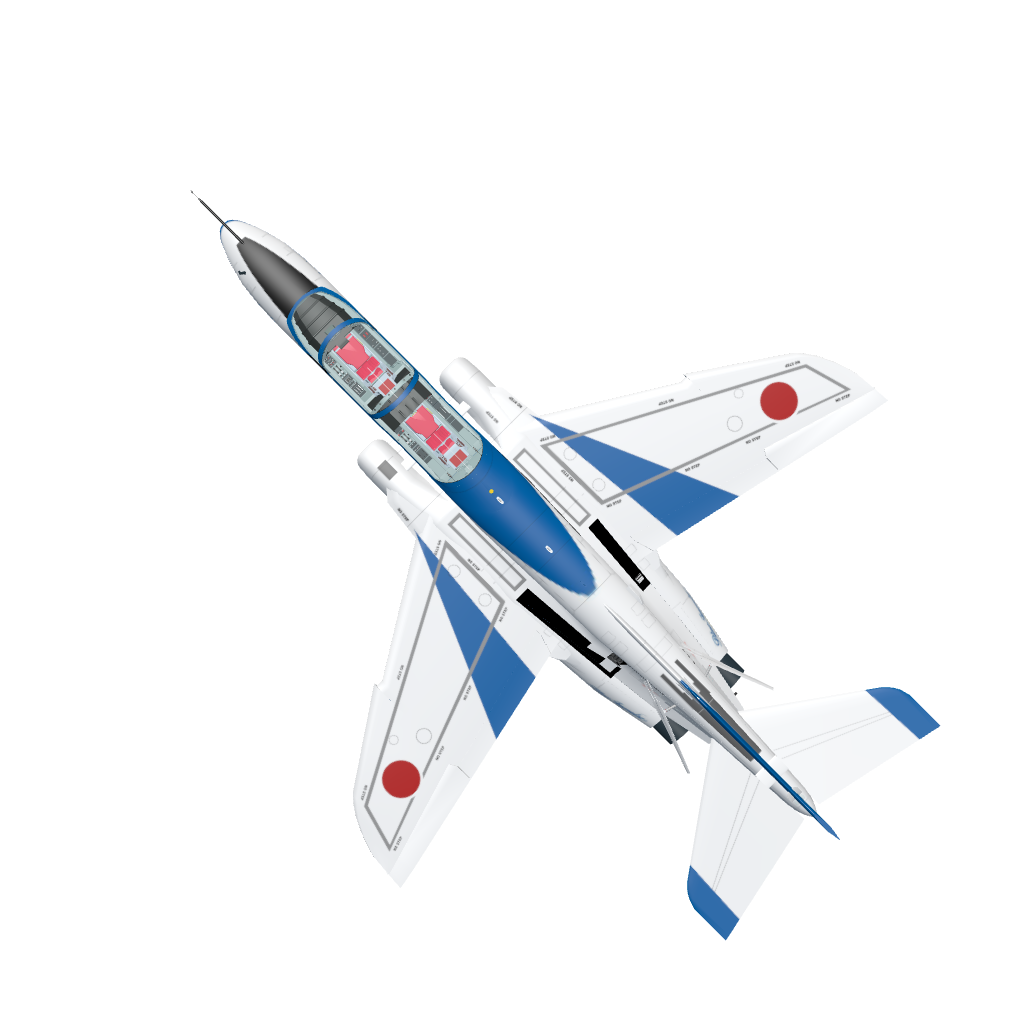
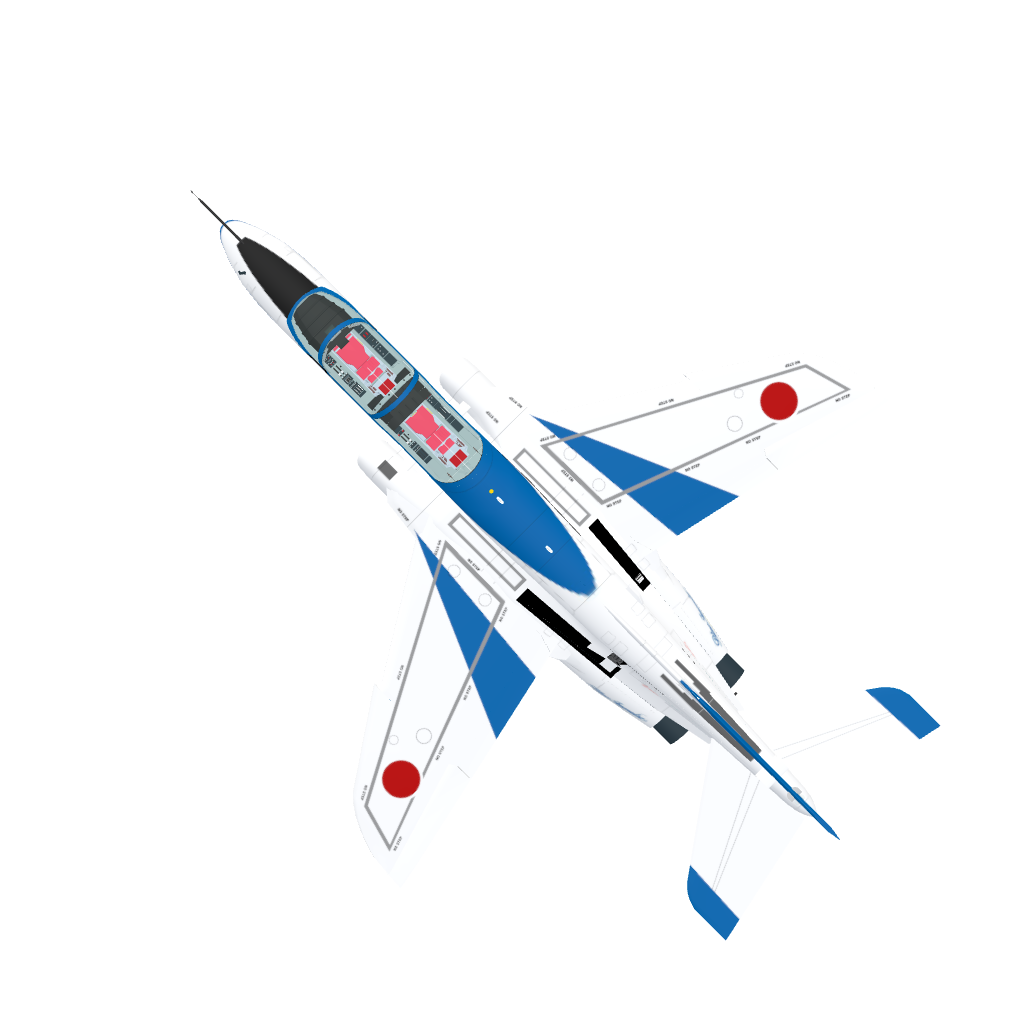
図版を再描画: 上面図も3Dモデルから生成、裏面描画を止めて黒い陰影を解消、姿勢図の背景を明るいグレーに

diff --git a/dev/render/render.html b/dev/render/render.html
@@ -22,9 +22,11 @@ renderer.setSize(W, H); renderer.setPixelRatio(1);
 renderer.setClearColor(0x000000, P.has('probe') ? 1 : 0);
 renderer.outputColorSpace = THREE.SRGBColorSpace;
 const scene = new THREE.Scene();
-scene.add(new THREE.HemisphereLight(0xffffff, 0x8899aa, 1.4));
-const dl = new THREE.DirectionalLight(0xffffff, 1.8); dl.position.set(-3, -4, 6); scene.add(dl);
-const dl2 = new THREE.DirectionalLight(0xffffff, 0.7); dl2.position.set(4, -2, -3); scene.add(dl2);
+/* 照明: 環境光を主体にして、陰影が濃く出ないようにする（?hemi= ?dir= で調整） */
+scene.add(new THREE.HemisphereLight(0xffffff, 0xb0b8c4, +(P.get('hemi') || 2.2)));
+scene.add(new THREE.AmbientLight(0xffffff, +(P.get('amb') || 0.6)));
+const dl = new THREE.DirectionalLight(0xffffff, +(P.get('dir') || 0.9)); dl.position.set(-3, -4, 6); scene.add(dl);
+const dl2 = new THREE.DirectionalLight(0xffffff, +(P.get('dir2') || 0.4)); dl2.position.set(4, -2, -3); scene.add(dl2);
 /* 世界座標: x=東(右), y=北(奥), z=上。視点は南 (0,-d,0) から原点を見る */
 const cam = new THREE.PerspectiveCamera(+(P.get('fov') || 28), W / H, 0.1, 1000);
 cam.up.set(0, 0, 1);
@@ -42,8 +44,8 @@ try {
 let meshes = 0, textured = 0;
 obj.traverse(o => { if (o.isMesh) { meshes++; const ms = Array.isArray(o.material) ? o.material : [o.material]; ms.forEach(m => {
   if (m.map) { textured++; m.color.setRGB(1, 1, 1); if (m.map.colorSpace !== undefined) m.map.colorSpace = THREE.SRGBColorSpace; }
-  if (m.emissive) m.emissive.setRGB(0, 0, 0); if (m.specular) m.specular.setRGB(.15, .15, .15); m.shininess = 20;
-  m.side = THREE.DoubleSide; m.needsUpdate = true; }); } });
+  if (m.emissive) m.emissive.setRGB(0, 0, 0); if (m.specular) m.specular.setRGB(.05, .05, .05); m.shininess = 8;
+  m.side = P.get('side') === 'double' ? THREE.DoubleSide : THREE.FrontSide; m.needsUpdate = true; }); } });
 const box = new THREE.Box3().setFromObject(obj); const size = box.getSize(new THREE.Vector3()); const ctr = box.getCenter(new THREE.Vector3());
 const names = []; obj.traverse(o => { if (o.isMesh) names.push(o.name + '[' + (Array.isArray(o.material) ? o.material.map(m => m.name).join('|') : o.material.name) + ']'); });
 log(`meshes ${meshes} textured ${textured} size ${size.x.toFixed(1)} ${size.y.toFixed(1)} ${size.z.toFixed(1)}\n` + names.join('\n'));
@@ -74,13 +76,19 @@ async function save(name) {
   const r = await fetch('/save?name=bi-' + name, { method: 'POST', body: data });
   log(name + ': ' + (await r.text()));
 }
-if (P.has('icon')) {
+if (P.has('top')) {
+  /* 方位問題用の上面図: 機首が北（画面の上）を向いた姿を z 軸正方向から見る */
+  cam.up.set(0, 1, 0); cam.position.set(0, 0, dist); cam.lookAt(0, 0, 0);
+  dl.position.set(-3, 4, 8); dl2.position.set(4, -3, 2);
+  setDir(0, 0); renderer.render(scene, cam); await save('top'); log('top saved');
+} else if (P.has('icon')) {
   /* アプリアイコン: 北西向きの機体を z 軸正方向（真上）から見る。画面の上が北、右が東 */
   cam.up.set(0, 1, 0); cam.position.set(0, 0, dist); cam.lookAt(0, 0, 0);
   dl.position.set(-3, 4, 8); dl2.position.set(4, -3, 2);
   setDir(315, 0); renderer.render(scene, cam); await save('icon-src'); log('icon saved');
 } else if (P.has('probe')) {
-  setDir(+(P.get('h') || 0), +(P.get('p') || 0)); renderer.render(scene, cam); log('probe rendered');
+  /* 試し描き: ?hd=方位 ?p=ピッチ（h はキャンバス高さに使うので別名） */
+  setDir(+(P.get('hd') || 0), +(P.get('p') || 0)); renderer.render(scene, cam); log('probe rendered');
 } else if (P.has('one')) {
   const d = DIRS.find(x => x[0] === P.get('one')); setDir(d[1], d[2]); renderer.render(scene, cam); log('rendered ' + d[0]);
 } else {

diff --git a/engine.js b/engine.js
@@ -259,13 +259,13 @@ ${body}<rect x="0.5" y="0.5" width="359" height="249" fill="none" stroke="var(--
   /* ---------- 描画: T-4 イラスト版（上面図・後方/前方図・側面図を回転して使う） ---------- */
   const IMG = 'img/t4-';
   function figTopDown(theta, phi) {
-    /* 上面図の元絵は機首が左向き。theta=0（機首が上）にするには +90° 回す */
+    /* 上面図は 3D モデルを真上から描画したもの（機首が上＝北）。theta をそのまま回転に使う */
     const ticks = [0, 90, 180, 270].map(a => `<line x1="100" y1="14" x2="100" y2="24" stroke="var(--faint)" stroke-width="2" transform="rotate(${a} 100 100)"/>`).join('') +
       [45, 135, 225, 315].map(a => `<line x1="100" y1="14" x2="100" y2="22" stroke="var(--faint)" stroke-width="2" transform="rotate(${a} 100 100)"/>`).join('');
     return `<svg viewBox="0 0 200 200" width="100%" style="aspect-ratio:1;display:block" role="img" aria-label="上面図">
 <circle cx="100" cy="100" r="96" fill="var(--bezel)"/><circle cx="100" cy="100" r="88" fill="var(--card)" stroke="var(--line2)" stroke-width="1"/>${ticks}
 <g transform="rotate(${phi} 100 100)"><polygon points="100,13 94,27 106,27" fill="var(--accent)"/><text x="100" y="42" text-anchor="middle" font-family="var(--mono)" font-size="14" font-weight="700" fill="var(--accent)">N</text></g>
-<image href="${IMG}top.png" x="30" y="30" width="140" height="140" preserveAspectRatio="xMidYMid meet" transform="rotate(${theta + 90} 100 100)"/></svg>`;
+<image href="img/t4-top.png" x="28" y="28" width="144" height="144" preserveAspectRatio="xMidYMid meet" transform="rotate(${theta} 100 100)"/></svg>`;
   }
   function figAttitude(bank, pitch, front, sideRight) {
     /* バンク: 後方図は時計回り = 右バンク。前方図は左右が逆に見えるので符号反転。

diff --git a/index.html b/index.html
@@ -106,7 +106,7 @@ aside{display:flex;flex-direction:column;gap:.75rem}
 .att{display:grid;grid-template-columns:1fr 1fr;gap:.5rem}
 .combo .att{grid-template-columns:1fr}
 .attp{border-radius:.625rem;overflow:hidden;border:1px solid var(--line)}
-.d14{position:relative;border-radius:.625rem;overflow:hidden;border:1px solid var(--line);background:#e6e9ee}
+.d14{position:relative;border-radius:.625rem;overflow:hidden;border:1px solid var(--line);background:#cdd3da}
 .d14legend{position:absolute;right:.375rem;top:.375rem;width:3.8rem;height:2.7rem;color:#fff;background:rgba(0,0,0,.45);border-radius:.375rem;padding:.15rem .25rem}
 .frames{display:flex;flex-direction:column;gap:.5rem}
 .frame{display:grid;grid-template-columns:1.5rem 1fr;gap:.5rem;align-items:center}

diff --git a/sw.js b/sw.js
@@ -1,5 +1,5 @@
 /* オフライン対応サービスワーカー。ファイルを更新したら CACHE の版数を上げる。 */
-const CACHE = 'aat-v8';
+const CACHE = 'aat-v9';
 const ASSETS = ['./', './index.html', './engine.js', './manifest.webmanifest',
   './icons/icon-192.png', './icons/icon-512.png', './icons/apple-touch-icon.png', './icons/favicon-64.png', './img/t4-top.png',
   ...['north', 'south', 'east', 'west', 'up', 'down', 'ne_up', 'nw_up', 'se_up', 'sw_up', 'ne_down', 'nw_down', 'se_down', 'sw_down'].map(n => `./img/bi-${n}.png`)];
